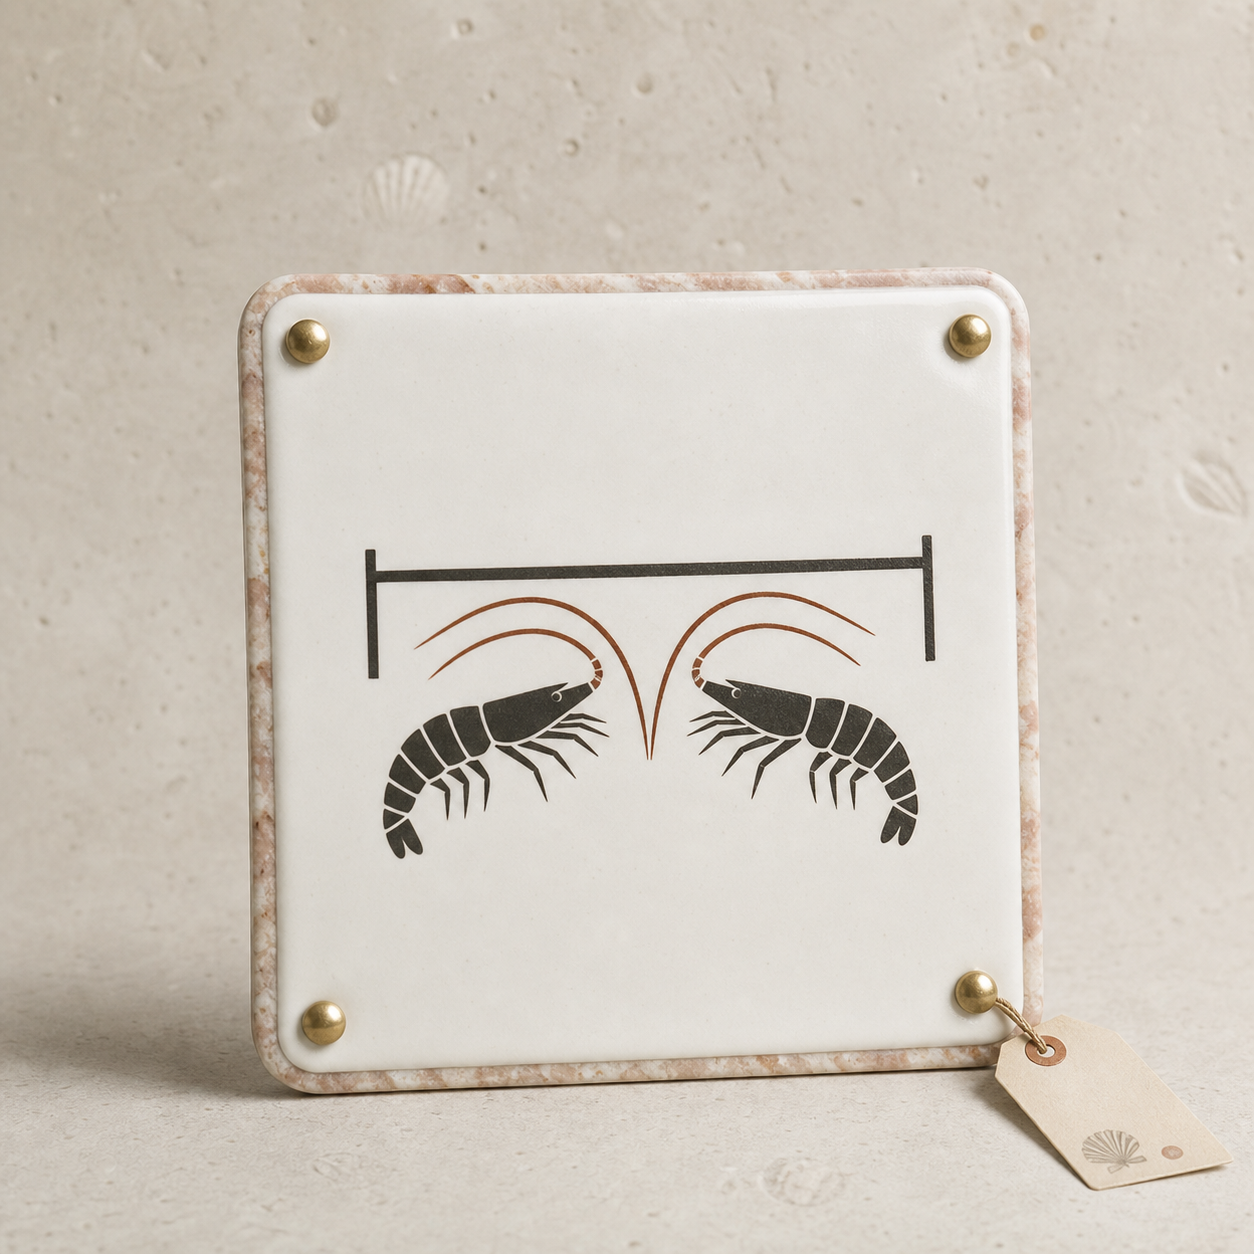
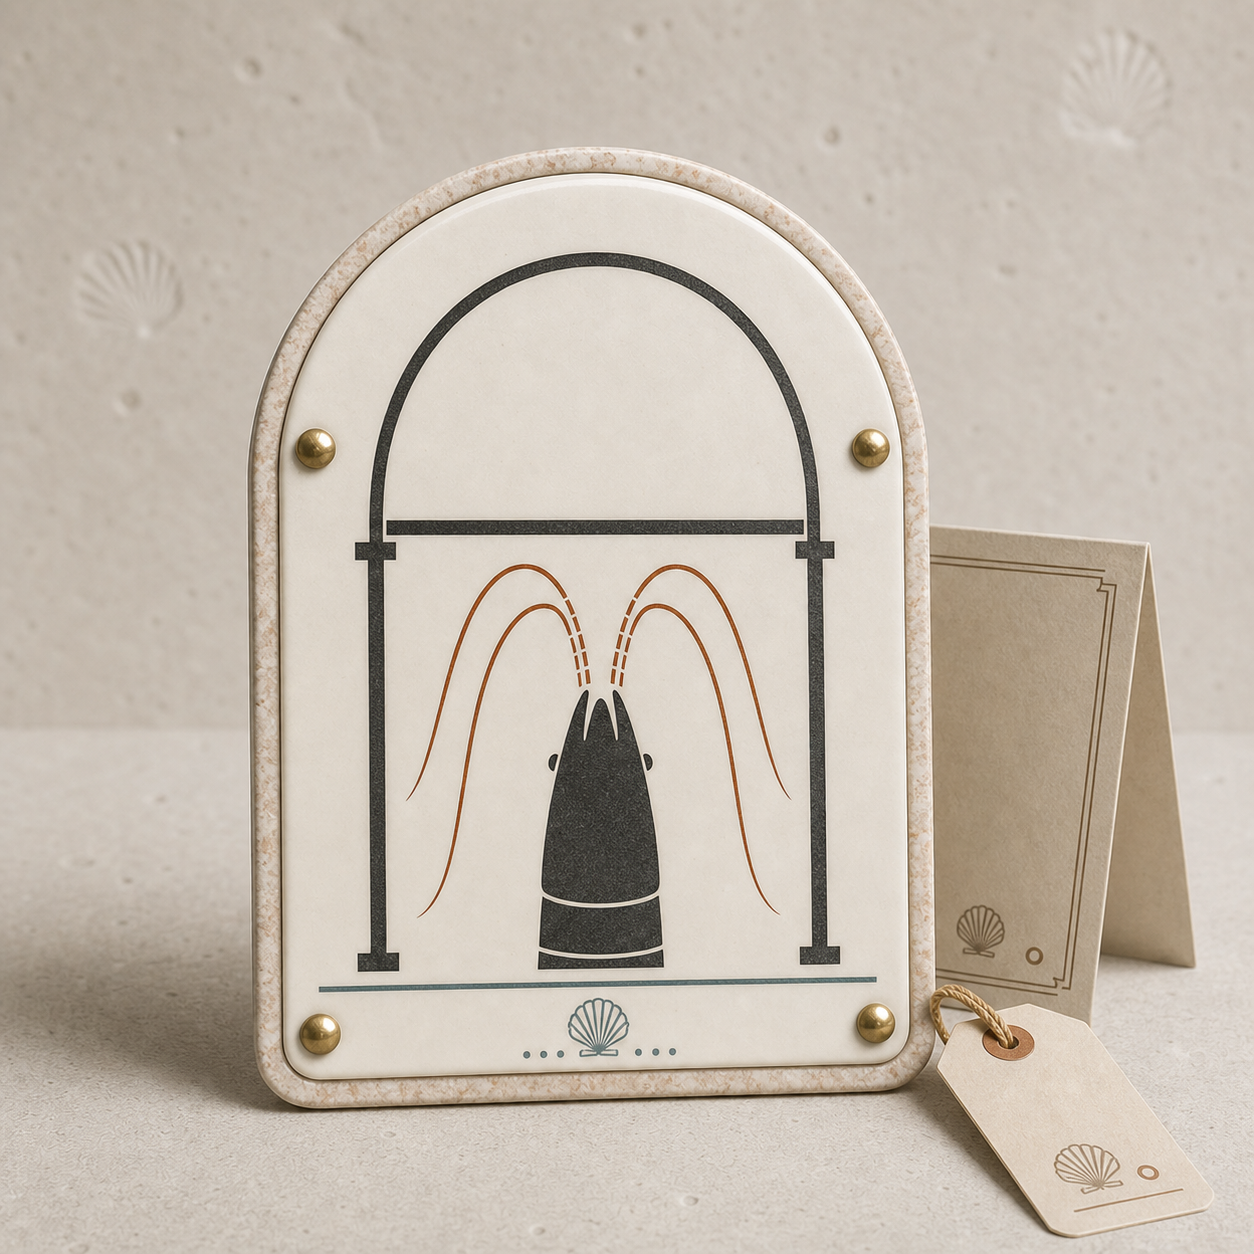
Refine shop stock copy and product set

diff --git a/src/styles/global.css b/src/styles/global.css
@@ -538,11 +538,6 @@ h2 {
 	font-weight: 600;
 }
 
-.shop-item-note {
-	color: var(--ink-soft);
-	font-size: 0.95rem;
-}
-
 .shop-item-button {
 	align-self: stretch;
 	margin-top: auto;

diff --git a/src/lib/shop.ts b/src/lib/shop.ts
@@ -9,8 +9,6 @@ export interface ShopItem {
 	wing: string;
 	priceLabel: string;
 	stockStatus: 'out_of_stock';
-	unavailableLabel: string;
-	inventoryNote: string;
 	description: string;
 	image: string;
 	imageAlt: string;
@@ -27,5 +25,5 @@ function readShopItems(): ShopItem[] {
 }
 
 export function getShopItems() {
-  return readShopItems();
+	return readShopItems();
 }